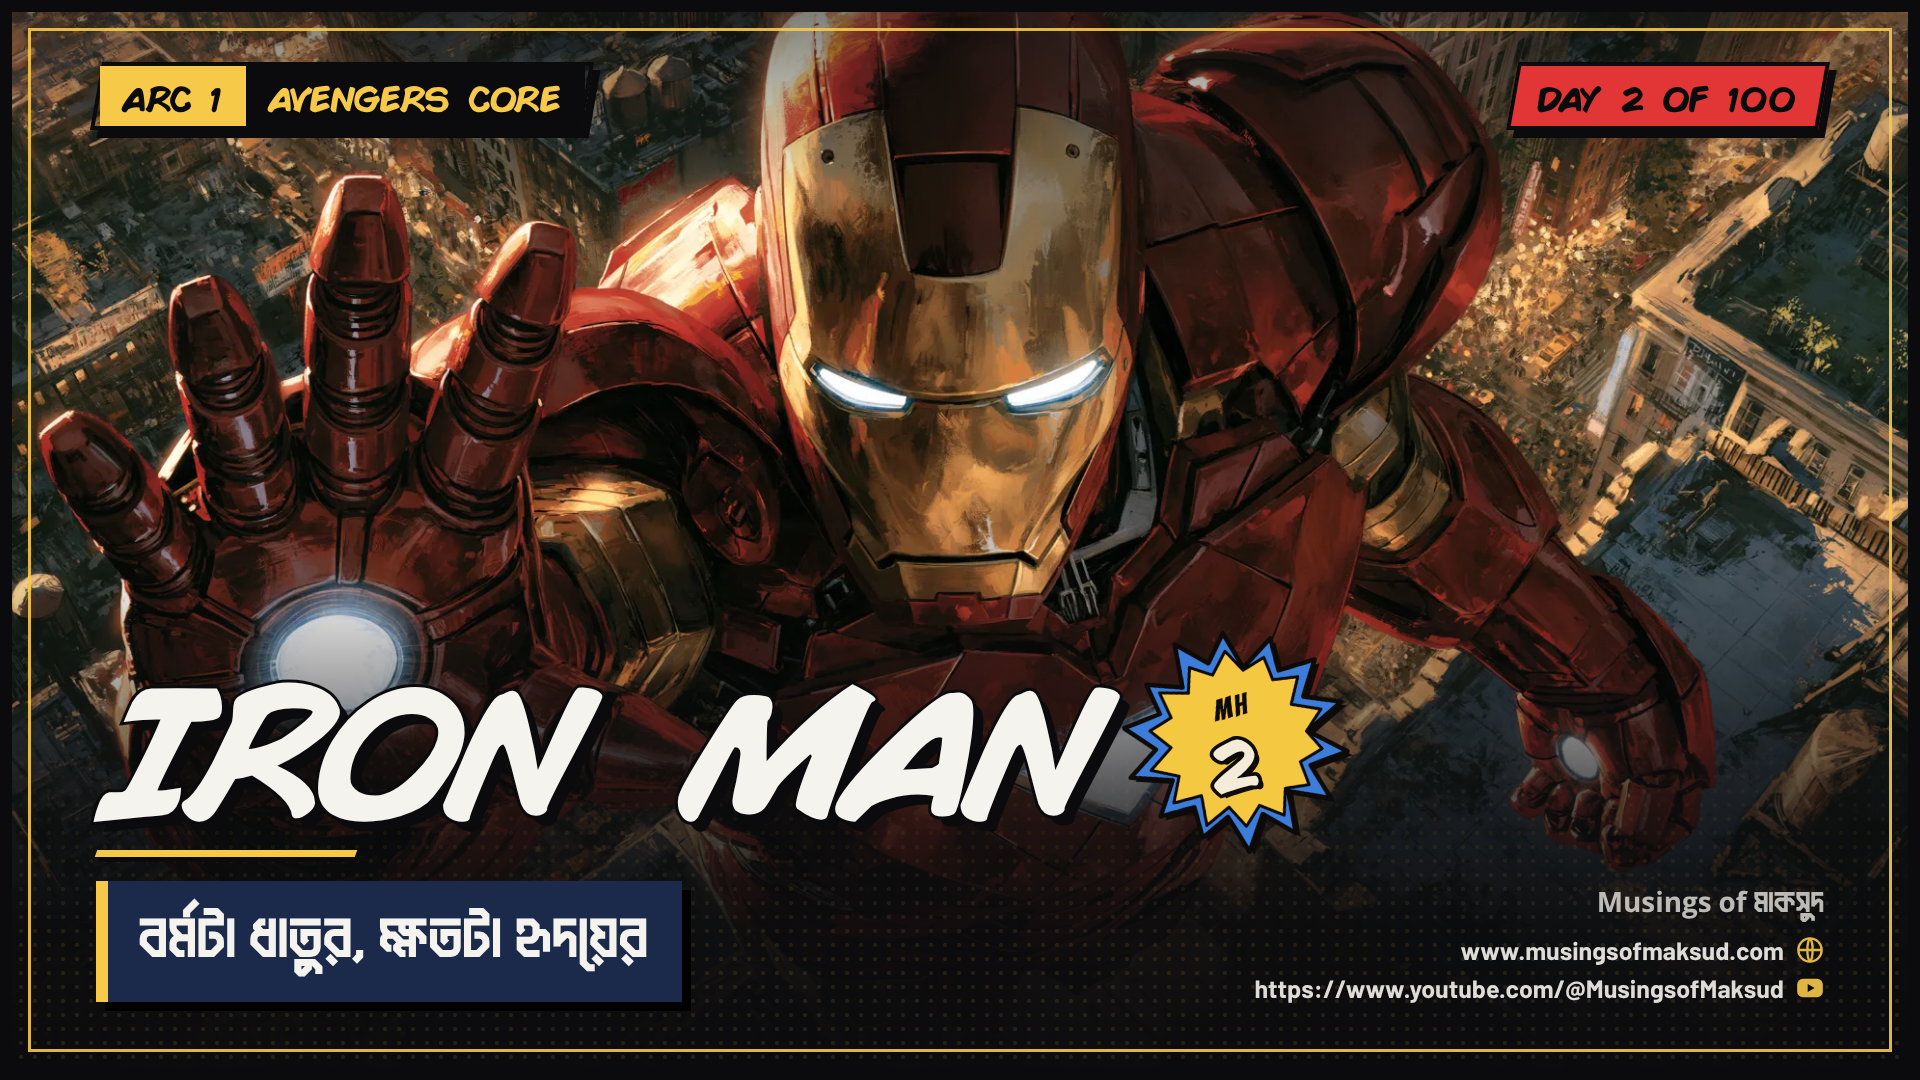
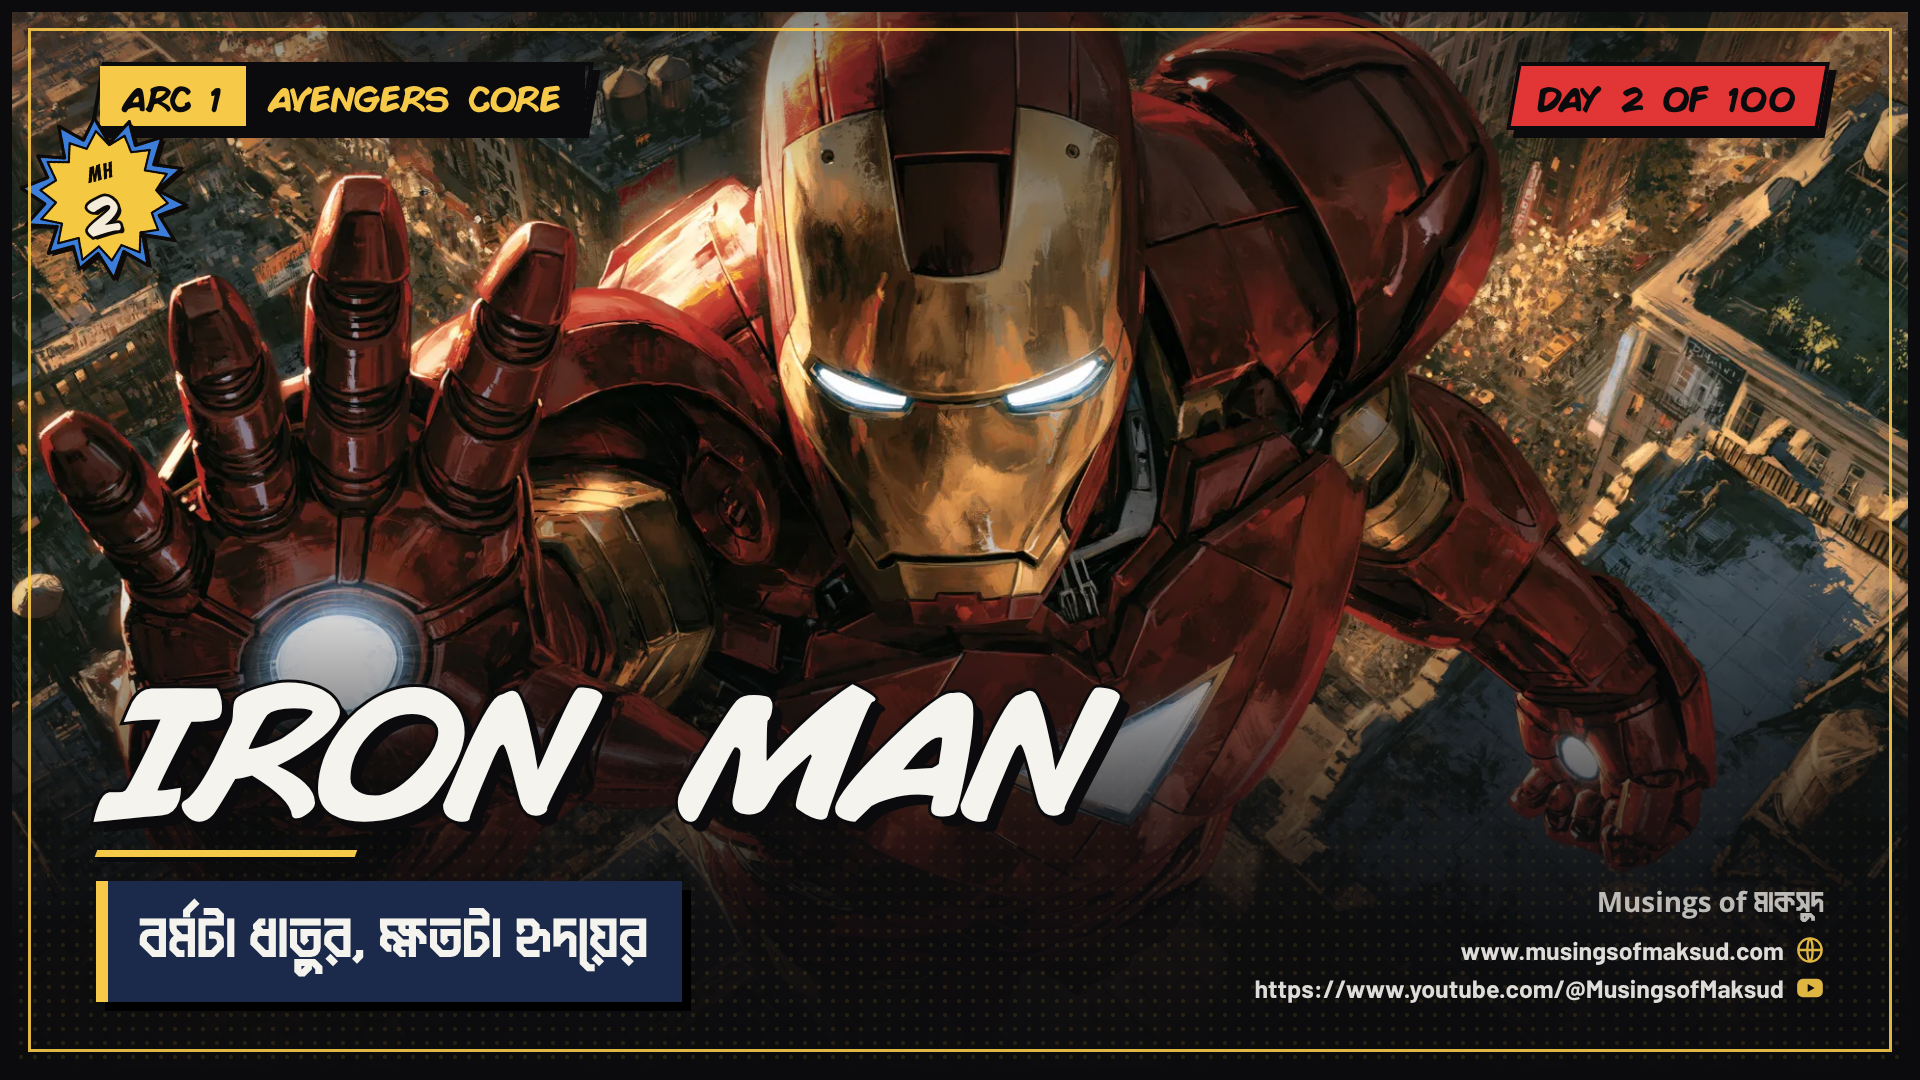
Move the MH number stamp under the ARC badge and make it smaller
The stamp now hangs off the bottom-left of the ARC badge (170 px, tilted),
sitting at the frame edge so it clears the faces on the opening. Top-left
title position starts lower to clear it. All eleven cards re-rendered;
README, transfer prompt and review-sheet zones updated.

Claude-Session: https://claude.ai/code/session_01M1ZHpzM7xsABALZbA4Syv2

Changed region(s): [[0.5938, 0.5806, 0.7188, 0.7944], [0.0, 0.1222, 0.0938, 0.275]]

diff --git a/marvel-heroes/template/post.html b/marvel-heroes/template/post.html
@@ -55,18 +55,16 @@ html,body{width:1920px;height:1080px;background:var(--bg);overflow:hidden}
 #block{position:absolute;max-width:1728px}
 .p-bottom-left #block{left:96px;bottom:78px}
 .p-bottom-right #block{right:96px;bottom:78px;text-align:right}
-.p-top-left #block{left:96px;top:188px}
+.p-top-left #block{left:96px;top:306px}   /* clears the MH stamp under the ARC badge */
 .p-top-right #block{right:96px;top:188px;text-align:right}
 .p-middle #block{left:50%;top:50%;transform:translate(-50%,-50%);text-align:center}
 .p-bottom #block{left:50%;transform:translateX(-50%);text-align:center}
 .p-bottom-right #rule,.p-top-right #rule{margin-left:auto}
 .p-middle #rule,.p-bottom #rule{margin-left:auto;margin-right:auto}
 /* hero name with the MH number badge stuck on its end, like a comic sticker */
-#heroRow{display:flex;align-items:center;gap:24px}
-.p-bottom-right #heroRow,.p-top-right #heroRow{justify-content:flex-end}
-.p-middle #heroRow,.p-bottom #heroRow{justify-content:center}
-#mh{position:relative;flex:none;width:230px;height:230px;margin:-34px 0 -34px;transform:rotate(-7deg)}
-#mh .in{position:absolute;left:0;top:0;width:620px;height:620px;transform:scale(.371);transform-origin:0 0}
+/* MH number stamp: hangs off the bottom-left corner of the ARC badge (top-left), tilted like a sticker */
+#mh{position:absolute;left:22px;top:114px;width:170px;height:170px;transform:rotate(-7deg)}
+#mh .in{position:absolute;left:0;top:0;width:620px;height:620px;transform:scale(.2742);transform-origin:0 0}
 #mh img{position:absolute;inset:0;width:620px;height:620px;display:block}
 #mh .n{position:absolute;left:148px;top:262px;width:290px;height:190px;display:flex;align-items:center;justify-content:center;
   font-family:"CB Support";font-size:var(--mh-size,190px);line-height:1;color:#F4EBD9;
@@ -106,12 +104,10 @@ html,body{width:1920px;height:1080px;background:var(--bg);overflow:hidden}
 
   <div id="arc" class="badge"><span class="n"></span><span class="name"></span></div>
   <div id="day" class="badge"><span></span></div>
+  <div id="mh"><div class="in"><img src="assets/mh-badge.png" alt=""><div class="n"></div></div></div>
 
   <div id="block">
-    <div id="heroRow">
-      <div id="hero"></div>
-      <div id="mh"><div class="in"><img src="assets/mh-badge.png" alt=""><div class="n"></div></div></div>
-    </div>
+    <div id="hero"></div>
     <div id="rule"></div>
     <div id="tag"><p></p></div>
   </div>
@@ -182,7 +178,7 @@ window.fitAll = () => {
     ? 1920 - 96 - sig.offsetWidth - 60 - 96 : 1728;
   if (POS === 'bottom') $('#block').style.bottom = (78 + sig.offsetHeight + 34) + 'px';
   tag.classList.remove('wrap'); tag.style.maxWidth = '';
-  fit($('#hero'),'--hero-size',180,100,room - ((POS === 'bottom-left' || POS === 'bottom-right') ? 0 : 254));
+  fit($('#hero'),'--hero-size',180,100,room);
   fit(tag,'--tag-size',62,50,room);
   // a very long Bangla line wraps onto two lines instead of shrinking further
   if (tag.scrollWidth > room){

diff --git a/marvel-heroes/tools/sheet.py b/marvel-heroes/tools/sheet.py
@@ -16,7 +16,7 @@ TW, TH, COLS, ROWS = 480, 270, 4, 3
 # approximate title zones in 1920x1080 canvas pixels (x0, y0, x1, y1)
 ZONES = {
     "bottom-left": (96, 640, 1300, 1002), "bottom-right": (620, 640, 1824, 1002),
-    "bottom": (330, 470, 1590, 820), "top-left": (96, 188, 1300, 540),
+    "bottom": (330, 470, 1590, 820), "top-left": (96, 306, 1300, 650),
     "top-right": (620, 188, 1824, 540), "middle": (330, 370, 1590, 710),
 }
 

diff --git a/marvel-heroes/README.md b/marvel-heroes/README.md
@@ -75,14 +75,14 @@ Pick the position that keeps the face clear:
 | `bottom-left` | bottom, left | bottom-right | Default. Face in the upper or centre area. Used for Days 1 to 5 and the opening |
 | `bottom-right` | bottom, right-aligned | moves to bottom-left | Subject sits low-left, face upper-left |
 | `bottom` | bottom, centred, raised above the signature | centred at the bottom | Face upper-centre, wide empty bottom |
-| `top-left` | below the badges, left | bottom-right | Face low or on the right |
+| `top-left` | below the MH stamp, left | bottom-right | Face low or on the right |
 | `top-right` | below the badges, right-aligned | bottom-right | Face low or on the left |
 | `middle` | centred, on a dark band | bottom-right | Face in the top third and the body below is empty |
 
 The top and middle positions darken the art behind the title, so only use them when the face
 is somewhere else. Render once and look: the face and mouth must be fully visible.
-Long Bangla lines shrink first, then wrap onto two lines. The MH badge adds about 250 px to the title row,
-so a long hero name shrinks a little more when the title is not in a bottom corner.
+Long Bangla lines shrink first, then wrap onto two lines. With `top-left` the title starts lower (306 px)
+to clear the MH stamp under the ARC badge.
 
 ### Hero-name colour
 
@@ -105,10 +105,11 @@ To force a colour, set `"heroColor": "#F5F3EE"` (any of the three) in the post's
 
 ### MH badge and signature block
 
-- The MH badge (`template/assets/mh-badge.png`, "MH" in the art, number drawn on top) is stuck to the end
-  of the hero name like a comic sticker, tilted 7 degrees. It shows the post number: `MH 0` for the
-  opening, then `MH 1`, `MH 2` and so on. It follows `day`; set `"mh"` in the JSON only to override.
-  It travels with the title block, so it stays wherever `pos` puts the title.
+- The MH stamp (`template/assets/mh-badge.png`, "MH" in the art, number drawn on top) hangs off the
+  bottom-left of the ARC badge, top-left, 170 px wide and tilted 7 degrees. It shows the post number:
+  `MH 0` for the opening, then `MH 1`, `MH 2` and so on. It follows `day`; set `"mh"` in the JSON only
+  to override. It is fixed in place. Check that it does not cover a face in the top-left corner (it did
+  on the opening, which is why it sits at the frame edge).
 - The signature block sits bottom-right (see `pos` for when it moves): `Musings of মাকসুদ`, then
   `www.musingsofmaksud.com` (globe icon), then `https://www.youtube.com/@MusingsofMaksud` (play icon).
   It is fixed in `template/post.html` (`SITE`, `YOUTUBE`); do not change it per day.
@@ -124,7 +125,7 @@ The image heading from each post is written as `MAIN / sub-line`. On the card:
 - **sub-line** = the Bangla line (`tagline`). Dabanol, comic paper `#F5F3EE`, on a night navy
   `#1B2A4A` caption box with a halftone-yellow left bar.
 - Top-left badge: `ARC N` (yellow) + arc name. Top-right badge: `DAY N OF 100` (red).
-- The MH badge sits at the end of the hero name and the signature block sits bottom-right (see above).
+- The MH stamp hangs under the ARC badge and the signature block sits bottom-right (see above).
 - No em dashes or en dashes anywhere on the card. Proper nouns stay in English.
 - Rotate the shape of the Bangla sub-line from day to day (a fact, a quote, a single noun,
   a question). At most one mirrored "[A]-এর X, [B]-এর Y" line per batch of four.
@@ -147,7 +148,7 @@ cream and black; do not add other colours.
 
 - The render prints no "fonts failed to load" warning.
 - Bangla conjuncts are shaped (zoom in on words like প্রায়শ্চিত্ত, ক্ষ, ন্ত্র).
-- The hero's face is clear of the badges, the title block and the bottom fade. The MH number matches the day.
-- The hero-name colour reads clearly against the art; the MH badge and the signature block do not touch.
+- The hero's face is clear of the badges, the MH stamp, the title block and the bottom fade. The MH number matches the day.
+- The hero-name colour reads clearly against the art; the title block and the signature block do not touch.
 - At 320x180 the hero name still reads.
 - No dashes, no off-palette colours, no Marvel logo or wordmark on the card.

diff --git a/marvel-heroes/TRANSFER_PROMPT.md b/marvel-heroes/TRANSFER_PROMPT.md
@@ -20,7 +20,7 @@ The folder contains:
 
 Requirements: Node with Playwright and Chromium, and Python 3 with Pillow and NumPy (WebP and the colour picker). `render.js` loads Playwright from `/opt/node22/lib/node_modules/playwright`; if it lives elsewhere, set the `PLAYWRIGHT` environment variable to its path. Do not run `playwright install` if a Chromium is already present.
 
-Check the setup by running `node marvel-heroes/template/render.js marvel-heroes/posts/day-001.json` and confirming the output matches the Day 1 card (1920x1080, MH 1 sticker after the hero name, signature block bottom-right, no "fonts failed to load" warning).
+Check the setup by running `node marvel-heroes/template/render.js marvel-heroes/posts/day-001.json` and confirming the output matches the Day 1 card (1920x1080, MH 1 stamp under the ARC badge, signature block bottom-right, no "fonts failed to load" warning).
 
 ## 2. Making each day
 
@@ -45,17 +45,17 @@ Never edit `post.html` or `render.js` for a single day. If you think the templat
 - Default position, lower-left (see `pos`): the hero name in English (Comic Book Bold Italic, all caps, black stroke and hard offset shadow), a short yellow rule, then the Bangla sub-line (Dabanol, on a navy box with a yellow left bar).
 - Hero-name colour changes with the background. `render.js` picks red, yellow or paper white from the artwork's colour (rules are in `pick_color.py` and the README). Do not hard-code a colour unless I ask; if I do, set `heroColor` in the post's JSON to one of `#E23636`, `#F7C948`, `#F5F3EE`.
 - Bottom-right, stacked: `Musings of মাকসুদ`, `www.musingsofmaksud.com`, `https://www.youtube.com/@MusingsofMaksud`. These are fixed in the template and must stay identical on every day. There is no footer bar; do not add one.
-- The MH starburst badge is stuck to the end of the hero name like a comic sticker (tilted slightly). It shows the post number (`MH 0` for the opening, then `MH 1`, `MH 2` and so on) and follows `day` automatically.
+- The MH starburst stamp hangs off the bottom-left of the ARC badge (top-left, small, tilted slightly). It shows the post number (`MH 0` for the opening, then `MH 1`, `MH 2` and so on) and follows `day` automatically.
 - Art is full-bleed, fading into black at the bottom, with a thin yellow inner frame.
 
 ## 4. Check before showing me
 
 - The render prints no "fonts failed to load" warning.
 - Zoom in on the Bangla line. Joined letters must be shaped correctly (for example প্রায়শ্চিত্ত, ক্ষ, ন্ত্র).
-- The hero name, the MH badge and the Bangla line do not touch the signature block, and nothing is cut off.
-- The MH number matches the day.
+- The hero name and the Bangla line do not touch the signature block, and nothing is cut off.
+- The MH number matches the day, and the stamp is readable and does not cover a face.
 - The hero-name colour reads clearly against the art behind it.
-- The hero's face is not covered by a badge, the title block, the MH sticker or the bottom fade.
+- The hero's face is not covered by a badge, the title block, the MH stamp or the bottom fade.
 - At roughly 320x180 the hero name still reads.
 - No em dashes or en dashes anywhere on the card. Proper nouns stay in English. No Marvel logo or wordmark.
 - File is 1920x1080 and ends in `.webp`.
